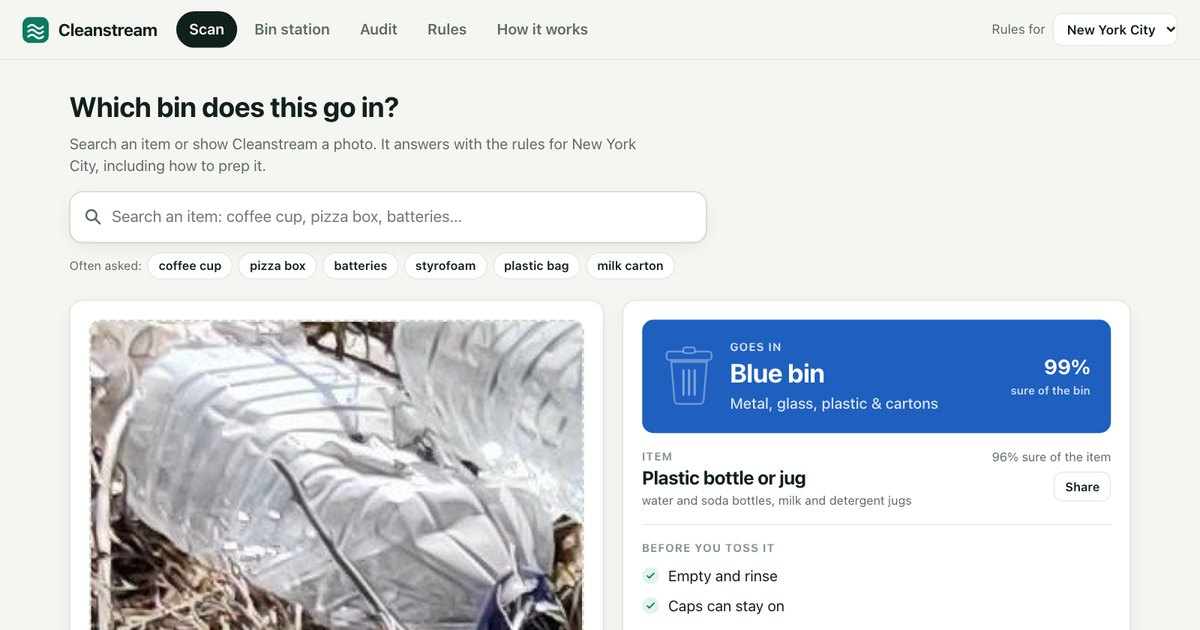
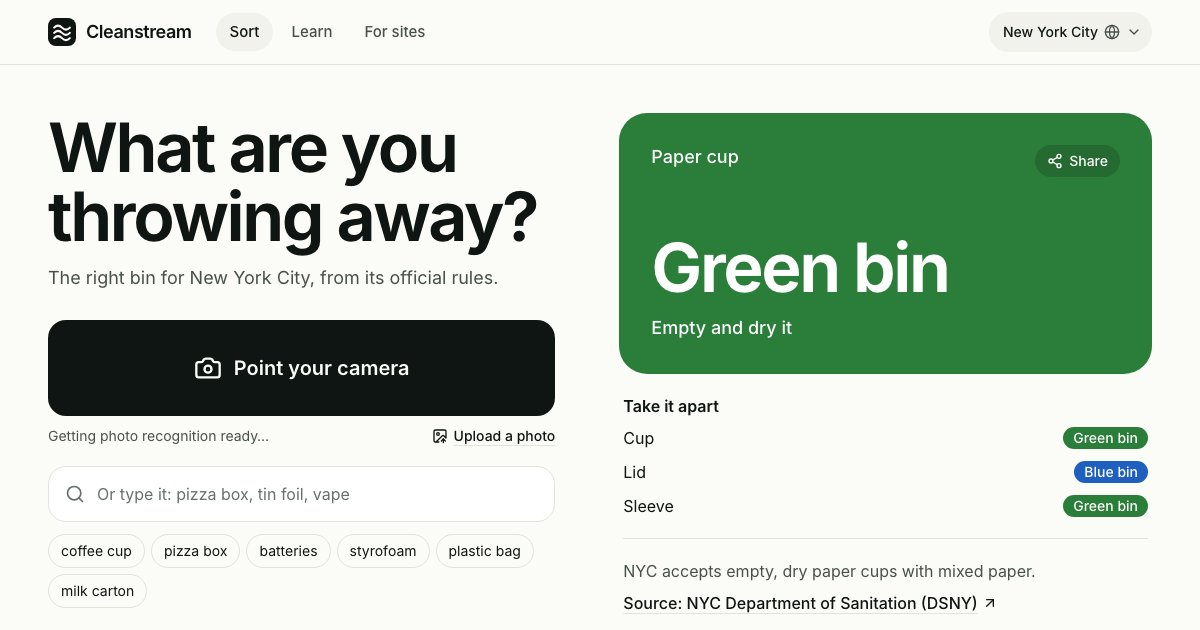
Faster first screen, offline reload fix, search accessibility fix, new brand images
The offline page fallback pointed at a file that was never cached, so reloading without a connection failed.

diff --git a/web/src/components/Search.tsx b/web/src/components/Search.tsx
@@ -1,5 +1,4 @@
 // Type-ahead search over item names and everyday synonyms ("tin foil", "amazon box"); needs no model.
-import { Command } from 'cmdk'
 import { Search as SearchIcon } from 'lucide-react'
 import { useState } from 'react'
 import { t } from '../i18n'
@@ -10,6 +9,7 @@ import { BinChip } from '../ui'
 export function ItemSearch({ pack, onPick, popular = [] }: { pack: Pack; onPick: (id: string) => void; popular?: string[] }) {
   const [q, setQ] = useState('')
   const [open, setOpen] = useState(false)
+  const [active, setActive] = useState(0)
   const hits = searchItems(q)
   const pick = (id: string) => {
     onPick(id)
@@ -20,28 +20,35 @@ export function ItemSearch({ pack, onPick, popular = [] }: { pack: Pack; onPick:
 
   return (
     <div>
-      <Command shouldFilter={false} loop label={t('Search an item')} className="relative">
+      <div className="relative">
         <label className="flex h-14 items-center gap-3 rounded-2xl border border-line bg-card px-4 transition-colors focus-within:border-ink">
           <SearchIcon className="size-5 shrink-0 text-ink-3" aria-hidden />
-          <Command.Input
-            value={q} onValueChange={(v) => (setQ(v), setOpen(true))} onFocus={() => setOpen(true)} onBlur={() => setTimeout(() => setOpen(false), 120)}
-            placeholder={t('Or type it: pizza box, tin foil, vape')} aria-label={t('Search an item')}
-            className="h-full min-w-0 flex-1 bg-transparent text-base outline-none placeholder:text-ink-3"
+          <input
+            type="search" value={q} autoComplete="off" placeholder={t('Or type it: pizza box, tin foil, vape')} aria-label={t('Search an item')}
+            role="combobox" aria-expanded={showList} aria-controls="search-list" aria-autocomplete="list" aria-activedescendant={showList && hits[active] ? `search-${hits[active]}` : undefined}
+            onChange={(e) => (setQ(e.target.value), setOpen(true), setActive(0))} onFocus={() => setOpen(true)} onBlur={() => setTimeout(() => setOpen(false), 120)}
+            onKeyDown={(e) => {
+              if (e.key === 'ArrowDown') (e.preventDefault(), setActive((a) => Math.min(a + 1, hits.length - 1)))
+              else if (e.key === 'ArrowUp') (e.preventDefault(), setActive((a) => Math.max(a - 1, 0)))
+              else if (e.key === 'Enter' && hits[active]) (e.preventDefault(), pick(hits[active]))
+              else if (e.key === 'Escape') setOpen(false)
+            }}
+            className="h-full min-w-0 flex-1 bg-transparent text-base outline-none placeholder:text-ink-3 [&::-webkit-search-cancel-button]:hidden"
           />
         </label>
-        {showList && (
-          <Command.List className="absolute inset-x-0 top-full z-20 mt-2 max-h-80 overflow-y-auto rounded-2xl border border-line bg-card p-1.5 shadow-xl animate-rise">
-            {hits.length === 0 ? (
-              <div className="px-3 py-3 text-sm text-ink-2">{t('Nothing matches “{query}”. Try a simpler word, or show it with a photo. When in doubt, keep it out of recycling.', { query: q.trim() })}</div>
-            ) : hits.map((id) => (
-              <Command.Item key={id} value={id} onSelect={() => pick(id)} className="flex cursor-pointer items-center justify-between gap-3 rounded-xl px-3 py-2.5 data-[selected=true]:bg-well">
-                <span className="min-w-0"><span className="block font-medium">{itemName(id)}</span><span className="block truncate text-sm text-ink-2">{itemExamples(id)}</span></span>
-                <BinChip bin={binById(pack, pack.items[id].bin)} />
-              </Command.Item>
-            ))}
-          </Command.List>
-        )}
-      </Command>
+        {/* the list stays in the page while hidden, because the input's aria-controls points at it */}
+        <div id="search-list" role="listbox" aria-label={t('Search an item')} hidden={!showList} className="absolute inset-x-0 top-full z-20 mt-2 max-h-80 overflow-y-auto rounded-2xl border border-line bg-card p-1.5 shadow-xl animate-rise">
+          {showList && (hits.length === 0 ? (
+            <div className="px-3 py-3 text-sm text-ink-2">{t('Nothing matches “{query}”. Try a simpler word, or show it with a photo. When in doubt, keep it out of recycling.', { query: q.trim() })}</div>
+          ) : hits.map((id, k) => (
+            <button key={id} id={`search-${id}`} role="option" aria-selected={k === active} onMouseDown={(e) => e.preventDefault()} onMouseEnter={() => setActive(k)} onClick={() => pick(id)}
+              className={`flex w-full items-center justify-between gap-3 rounded-xl px-3 py-2.5 text-left ${k === active ? 'bg-well' : ''}`}>
+              <span className="min-w-0"><span className="block font-medium">{itemName(id)}</span><span className="block truncate text-sm text-ink-2">{itemExamples(id)}</span></span>
+              <BinChip bin={binById(pack, pack.items[id].bin)} />
+            </button>
+          )))}
+        </div>
+      </div>
       {popular.length > 0 && (
         <div className="mt-3 flex flex-wrap gap-1.5">
           {popular.map((id) => <button key={id} onClick={() => pick(id)} className="rounded-full border border-line px-3 py-1.5 text-sm text-ink hover:bg-well">{itemShort(id)}</button>)}

diff --git a/web/src/components/Shell.tsx b/web/src/components/Shell.tsx
@@ -1,10 +1,11 @@
 // App frame: three destinations (top bar on wide screens, tab bar on phones) and one place to set city and language.
 import { BookOpen, Building2, Camera, Check, ChevronDown, Download, Globe } from 'lucide-react'
-import { useState, type ReactNode } from 'react'
+import { lazy, Suspense, useState, type ReactNode } from 'react'
 import { LANGS, setLang, t, tCity, useLang, type Lang } from '../i18n'
 import { PACK_IDS, PACK_NAMES } from '../rules'
 import { Logo } from '../ui'
-import { Sheet } from './Sheet'
+
+const Sheet = lazy(() => import('./Sheet'))
 
 export type Section = 'sort' | 'learn' | 'sites'
 
@@ -32,7 +33,7 @@ function PlaceButton({ city, setCity, install }: { city: string; setCity: (c: st
         className="flex h-10 min-w-0 items-center gap-1.5 rounded-full bg-well pl-3.5 pr-2.5 text-sm font-medium hover:bg-line">
         <span className="truncate">{cityName(city)}</span><Globe className="size-4 shrink-0 text-ink-2" aria-hidden /><ChevronDown className="size-4 shrink-0 text-ink-2" aria-hidden />
       </button>
-      <Sheet open={open} onClose={() => setOpen(false)} title={t('Your place')}>
+      {open && <Suspense fallback={null}><Sheet open onClose={() => setOpen(false)} title={t('Your place')}>
         <h3 className="mb-1 px-3 text-sm font-medium text-ink-2">{t('Rules for')}</h3>
         <div role="radiogroup" aria-label={t('Rules for')} className="grid">
           {PACK_IDS.map((id) => <Row key={id} on={id === city} onClick={() => (setCity(id), setOpen(false))}>{cityName(id)}</Row>)}
@@ -46,7 +47,7 @@ function PlaceButton({ city, setCity, install }: { city: string; setCity: (c: st
             <Download className="size-5" aria-hidden />{t('Install app')}
           </button>
         )}
-      </Sheet>
+      </Sheet></Suspense>}
     </>
   )
 }

diff --git a/web/src/components/Sheet.tsx b/web/src/components/Sheet.tsx
@@ -3,7 +3,6 @@ import * as Dialog from '@radix-ui/react-dialog'
 import { X } from 'lucide-react'
 import type { ReactNode } from 'react'
 import { t } from '../i18n'
-import { cn } from '../lib/utils'
 
 export function Sheet({ open, onClose, title, children, className }: { open: boolean; onClose: () => void; title: string; children: ReactNode; className?: string }) {
   return (
@@ -12,11 +11,7 @@ export function Sheet({ open, onClose, title, children, className }: { open: boo
         <Dialog.Overlay className="fixed inset-0 z-50 bg-black/45" />
         <Dialog.Content
           aria-describedby={undefined}
-          className={cn(
-            'fixed inset-x-0 bottom-0 z-50 max-h-[88dvh] overflow-y-auto rounded-t-3xl bg-card p-5 pb-[max(1.25rem,env(safe-area-inset-bottom))] text-ink animate-sheet',
-            'sm:inset-0 sm:m-auto sm:h-fit sm:w-[30rem] sm:rounded-3xl',
-            className,
-          )}
+          className={`fixed inset-x-0 bottom-0 z-50 max-h-[88dvh] overflow-y-auto rounded-t-3xl bg-card p-5 pb-[max(1.25rem,env(safe-area-inset-bottom))] text-ink animate-sheet sm:inset-0 sm:m-auto sm:h-fit sm:w-[30rem] sm:rounded-3xl ${className ?? ''}`}
         >
           <div className="mb-4 flex items-center justify-between gap-4">
             <Dialog.Title className="text-xl font-semibold tracking-tight">{title}</Dialog.Title>
@@ -28,3 +23,5 @@ export function Sheet({ open, onClose, title, children, className }: { open: boo
     </Dialog.Root>
   )
 }
+
+export default Sheet

diff --git a/web/src/components/Answer.tsx b/web/src/components/Answer.tsx
@@ -1,13 +1,14 @@
 // The answer: conclusion first in the bin's own colour, then the parts, how to prep it, the official source and how to correct it.
 import { ArrowUpRight, Check, Lock, Share2 } from 'lucide-react'
-import { useState } from 'react'
+import { lazy, Suspense, useState } from 'react'
 import { t, useLang } from '../i18n'
 import { itemName } from '../items'
 import { partsOf } from '../parts'
 import { binById, type Answer as Ans, type Bin, type Pack } from '../rules'
 import { answerLink, BinChip, pct } from '../ui'
-import { Sheet } from './Sheet'
 import { ItemPicker } from './Search'
+
+const Sheet = lazy(() => import('./Sheet'))
 
 function Share({ pack, item, bin }: { pack: Pack; item: string; bin: Bin }) {
   const [copied, setCopied] = useState(false)
@@ -51,7 +52,7 @@ export function Answer({ ans, ms, pack, packs, item: chosen, preview, onChoose }
   const [picking, setPicking] = useState(false)
   const item = chosen ?? ans!.items[0].id
   const unsure = !!ans && !chosen && !ans.sure
-  const picker = <Sheet open={picking} onClose={() => setPicking(false)} title={t('What is it?')}><ItemPicker pack={pack} onPick={(id) => (onChoose(id), setPicking(false))} /></Sheet>
+  const picker = picking && <Suspense fallback={null}><Sheet open onClose={() => setPicking(false)} title={t('What is it?')}><ItemPicker pack={pack} onPick={(id) => (onChoose(id), setPicking(false))} /></Sheet></Suspense>
 
   if (unsure) {
     return (

diff --git a/web/src/views/Scan.tsx b/web/src/views/Scan.tsx
@@ -1,13 +1,14 @@
 import { Camera, ImageUp } from 'lucide-react'
-import { useEffect, useRef, useState } from 'react'
+import { lazy, Suspense, useEffect, useRef, useState } from 'react'
 import { Answer } from '../components/Answer'
-import { CameraSheet } from '../components/Camera'
 import { ItemSearch } from '../components/Search'
 import { t } from '../i18n'
 import { ITEMS, itemName } from '../items'
 import { classify, loadModel, useModel } from '../model/client'
 import { answer, type Pack } from '../rules'
 import { sampleUrl, thumbUrl, useSamples, type Sample } from '../ui'
+
+const CameraSheet = lazy(() => import('../components/Camera').then((m) => ({ default: m.CameraSheet })))
 
 // The item in a shared link: #scan?item=pizza_box&city=sf
 const linkedItem = () => {
@@ -155,7 +156,7 @@ export default function Scan({ pack, packs }: { pack: Pack; packs: Pack[] }) {
         )}
       </div>
 
-      <CameraSheet open={camera} onClose={() => setCamera(false)} onImage={onImage} onUpload={() => file.current?.click()} status={progress} />
+      {camera && <Suspense fallback={null}><CameraSheet open onClose={() => setCamera(false)} onImage={onImage} onUpload={() => file.current?.click()} status={progress} /></Suspense>}
     </div>
   )
 }

diff --git a/web/src/App.tsx b/web/src/App.tsx
@@ -57,7 +57,7 @@ export default function App() {
   const [route, setRoute] = useState<Route>(routeFromHash)
   const [city, setCity] = useState(storedCity)
   const { lang, ready } = useLang()
-  const english = usePacks()
+  const english = usePacks(city)
   // eslint-disable-next-line react-hooks/exhaustive-deps
   const packs = useMemo(() => english?.map(localizePack) ?? null, [english, lang])
   const install = useInstall()
@@ -94,7 +94,7 @@ export default function App() {
   const loading = <p className="min-h-[70vh] text-ink-2">{t('Loading…')}</p>
   return (
     <Shell section={ROUTES[route]} city={city} setCity={setCity} install={install}>
-      {!packs || !pack ? loading : (
+      {!packs || !pack || (route !== 'scan' && packs.length < PACK_IDS.length) ? loading : (
         <Suspense fallback={loading}>
           {route === 'scan' && <Scan pack={pack} packs={packs} />}
           {(route === 'rules' || route === 'quiz') && <Learn key={pack.id} sub={route} pack={pack} packs={packs} />}

diff --git a/web/src/rules.ts b/web/src/rules.ts
@@ -23,11 +23,19 @@ export function loadPack(id: string): Promise<Pack> {
   return cache.get(id)!
 }
 
-export function usePacks(): Pack[] | null {
+// The current city first, so the first screen need not wait for the others; the rest follow straight after.
+export function usePacks(first: string): Pack[] | null {
   const [packs, setPacks] = useState<Pack[] | null>(null)
   useEffect(() => {
-    Promise.all(PACK_IDS.map(loadPack)).then(setPacks)
-  }, [])
+    let live = true
+    const add = (p: Pack) => {
+      if (live) setPacks((cur) => (cur?.some((x) => x.id === p.id) ? cur : [...(cur ?? []), p].sort((a, b) => PACK_IDS.indexOf(a.id as never) - PACK_IDS.indexOf(b.id as never))))
+    }
+    loadPack(first).then(add).then(() => PACK_IDS.forEach((id) => loadPack(id).then(add)))
+    return () => {
+      live = false
+    }
+  }, [first])
   return packs
 }
 

diff --git a/web/index.html b/web/index.html
@@ -2,9 +2,9 @@
 <html lang="en">
   <head>
     <meta charset="UTF-8" />
-    <link rel="icon" type="image/svg+xml" href="/cleanstream/favicon.svg" />
-    <link rel="manifest" href="/cleanstream/manifest.webmanifest" />
-    <link rel="apple-touch-icon" href="/cleanstream/icons/apple-touch-icon.png" />
+    <link rel="icon" type="image/svg+xml" href="%BASE_URL%favicon.svg" />
+    <link rel="manifest" href="%BASE_URL%manifest.webmanifest" />
+    <link rel="apple-touch-icon" href="%BASE_URL%icons/apple-touch-icon.png" />
     <meta name="theme-color" content="#fbfbf7" media="(prefers-color-scheme: light)" />
     <meta name="theme-color" content="#0b0e0c" media="(prefers-color-scheme: dark)" />
     <meta name="apple-mobile-web-app-capable" content="yes" />

diff --git a/web/vite.config.ts b/web/vite.config.ts
@@ -4,9 +4,9 @@ import { fileURLToPath } from 'node:url'
 import { defineConfig } from 'vite'
 import { serviceWorker } from './sw-plugin.ts'
 
-// Served from GitHub Pages at /cleanstream/; the dev server uses the same base so paths match.
+// Served from GitHub Pages at /cleanstream/; the dev server uses the same base so paths match. BASE overrides it for a trial copy.
 export default defineConfig({
-  base: '/cleanstream/',
+  base: process.env.BASE ?? '/cleanstream/',
   plugins: [react(), tailwindcss(), serviceWorker(fileURLToPath(new URL('./public', import.meta.url)))],
   resolve: { alias: { '@': fileURLToPath(new URL('./src', import.meta.url)) } },
   worker: { format: 'es' },

diff --git a/web/sw-plugin.ts b/web/sw-plugin.ts
@@ -38,7 +38,7 @@ self.addEventListener('fetch', (e) => {
   if (req.method !== 'GET' || new URL(req.url).origin !== location.origin) return
   if (req.mode === 'navigate') {
     // fresh page when online, the cached one when not
-    e.respondWith(fetch(req).catch(() => caches.match('./index.html', { ignoreSearch: true })).then(isolated))
+    e.respondWith(fetch(req).catch(() => caches.match('./', { ignoreSearch: true })).then(isolated))
     return
   }
   e.respondWith(caches.match(req, { ignoreSearch: true }).then((hit) => hit || fetch(req).then((res) => {

diff --git a/README.md b/README.md
@@ -47,7 +47,7 @@ The app has three sections: **Sort** for anyone at a bin, **Learn** for the rule
 | **Poster** (For sites) | A printable sign for the bins, built from what people ask about most at that station, in the bins' order on site, with a QR code to the phone version. A bin with no tablet can still use it. |
 | **How it works** | The model, the evaluation numbers below, data sources and licences. |
 
-<p><img src="docs/station.jpg" width="49%" alt="Bin station"> <img src="docs/audit.jpg" width="49%" alt="Bin audit"></p>
+<p><img src="docs/station.jpg" width="49%" alt="Bin station"> <img src="docs/audit.jpg" width="49%" alt="Pilot report, with example data"></p>
 
 Every resident-facing screen, rule and search also works in Spanish, Simplified Chinese and Traditional Chinese. The
 language follows the browser, and `?kiosk&lang=es` sets a station's own language. Search understands everyday words in
@@ -206,7 +206,7 @@ uv venv --python 3.12 .venv && uv pip install --python .venv/bin/python torch to
 Code: MIT licence (see `LICENSE`).
 
 Interface: [shadcn/ui](https://github.com/shadcn-ui/ui) components (MIT), [Radix Primitives](https://github.com/radix-ui/primitives) (MIT),
-[Tailwind CSS](https://github.com/tailwindlabs/tailwindcss) (MIT), [cmdk](https://github.com/dip/cmdk) (MIT),
+[Tailwind CSS](https://github.com/tailwindlabs/tailwindcss) (MIT),
 [Lucide](https://github.com/lucide-icons/lucide) icons (ISC), [uqr](https://github.com/unjs/uqr) (MIT) and the
 [Inter](https://github.com/rsms/inter) typeface (SIL OFL 1.1).
 
